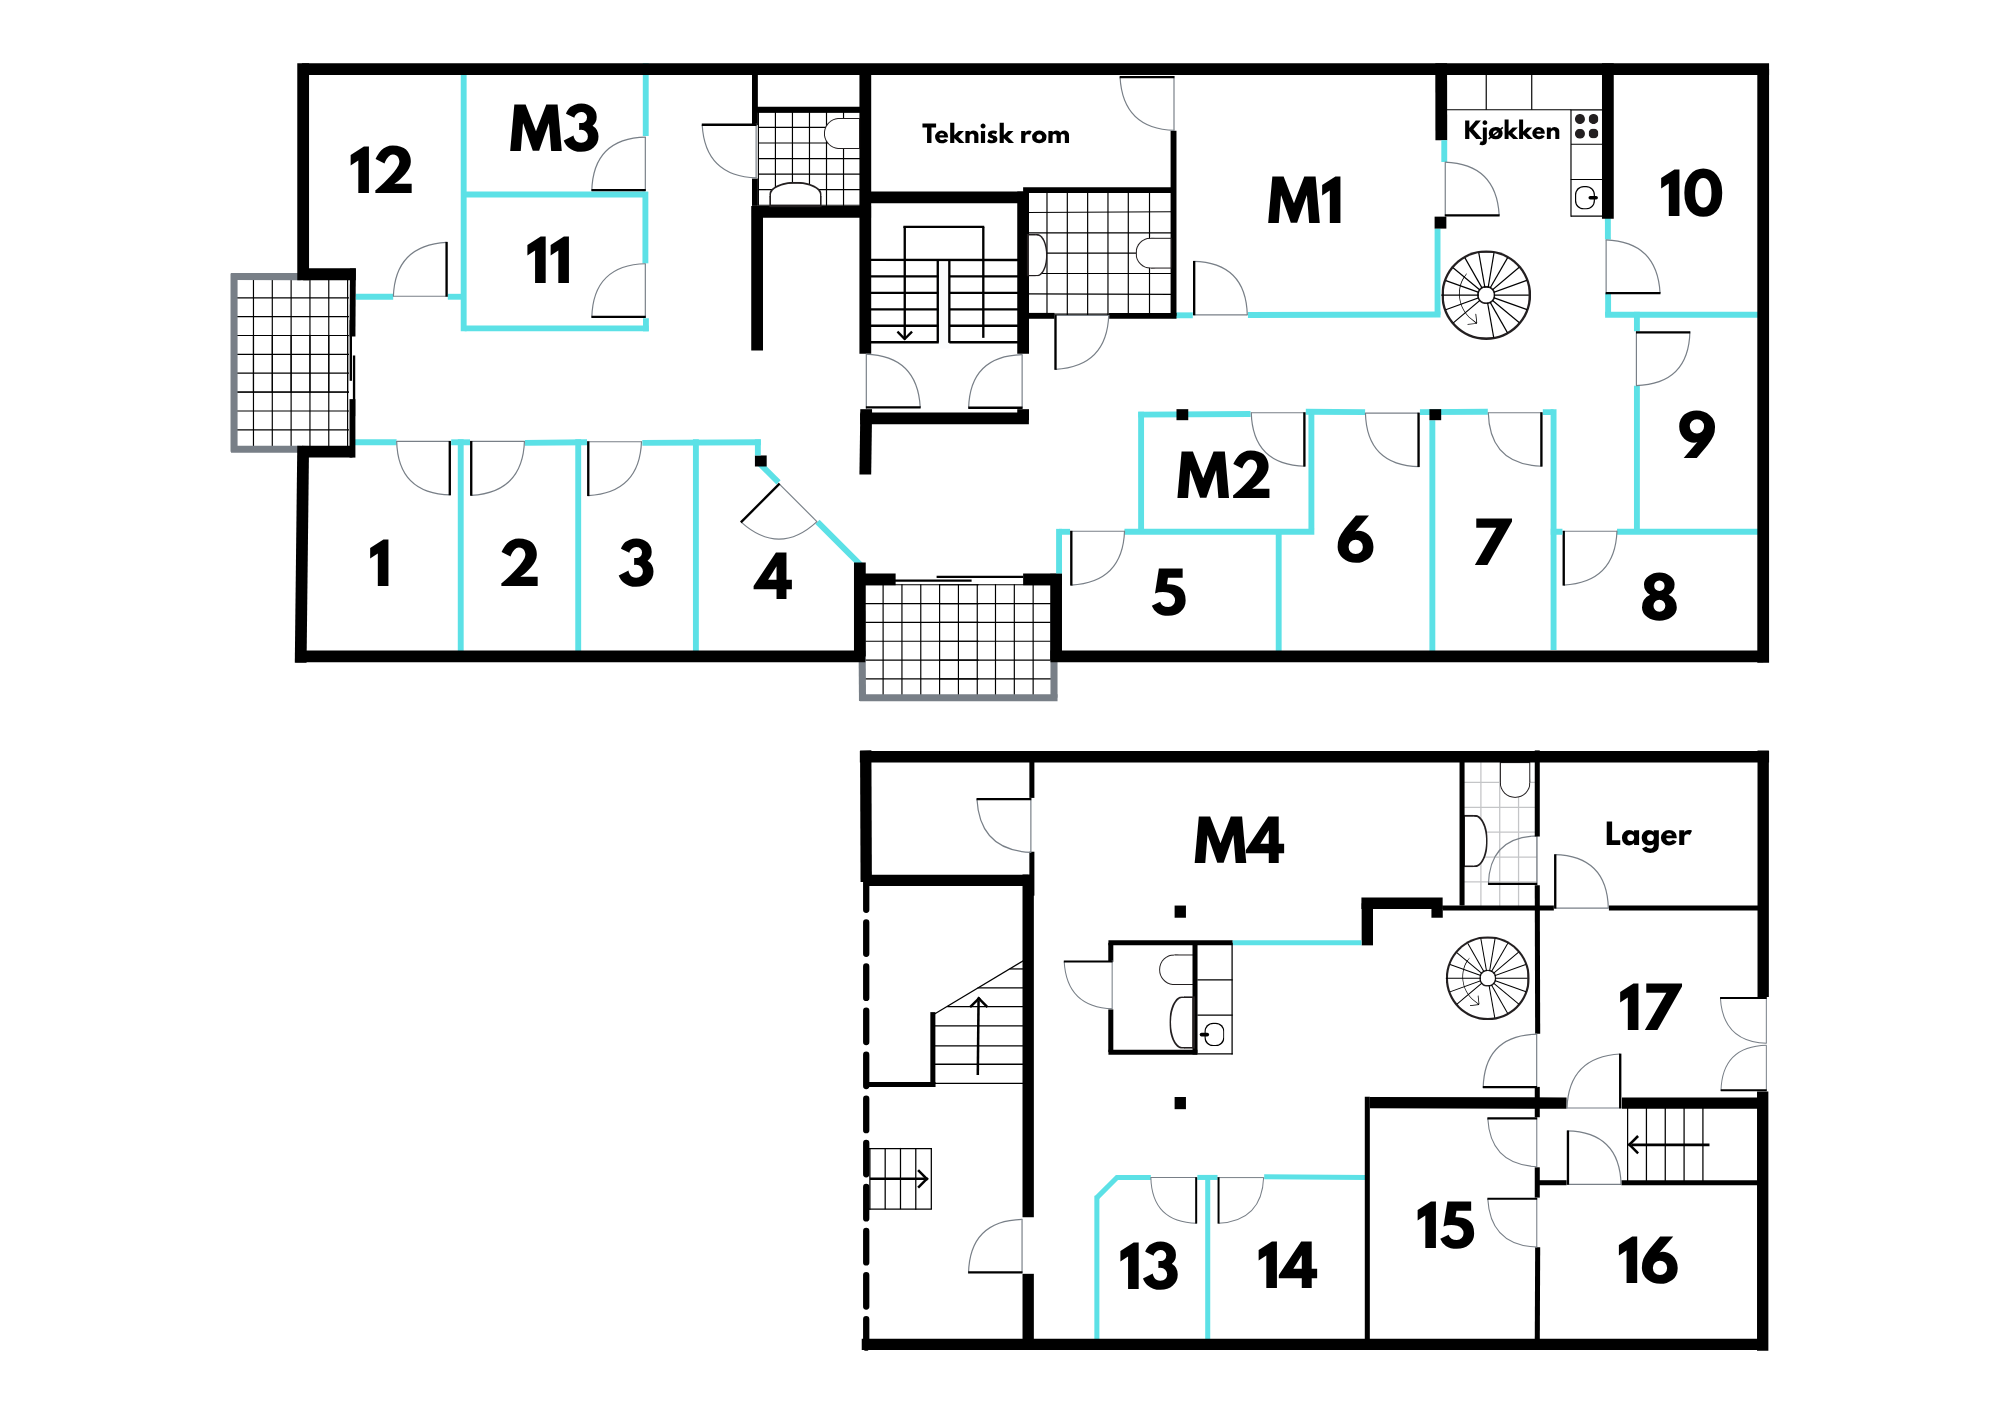
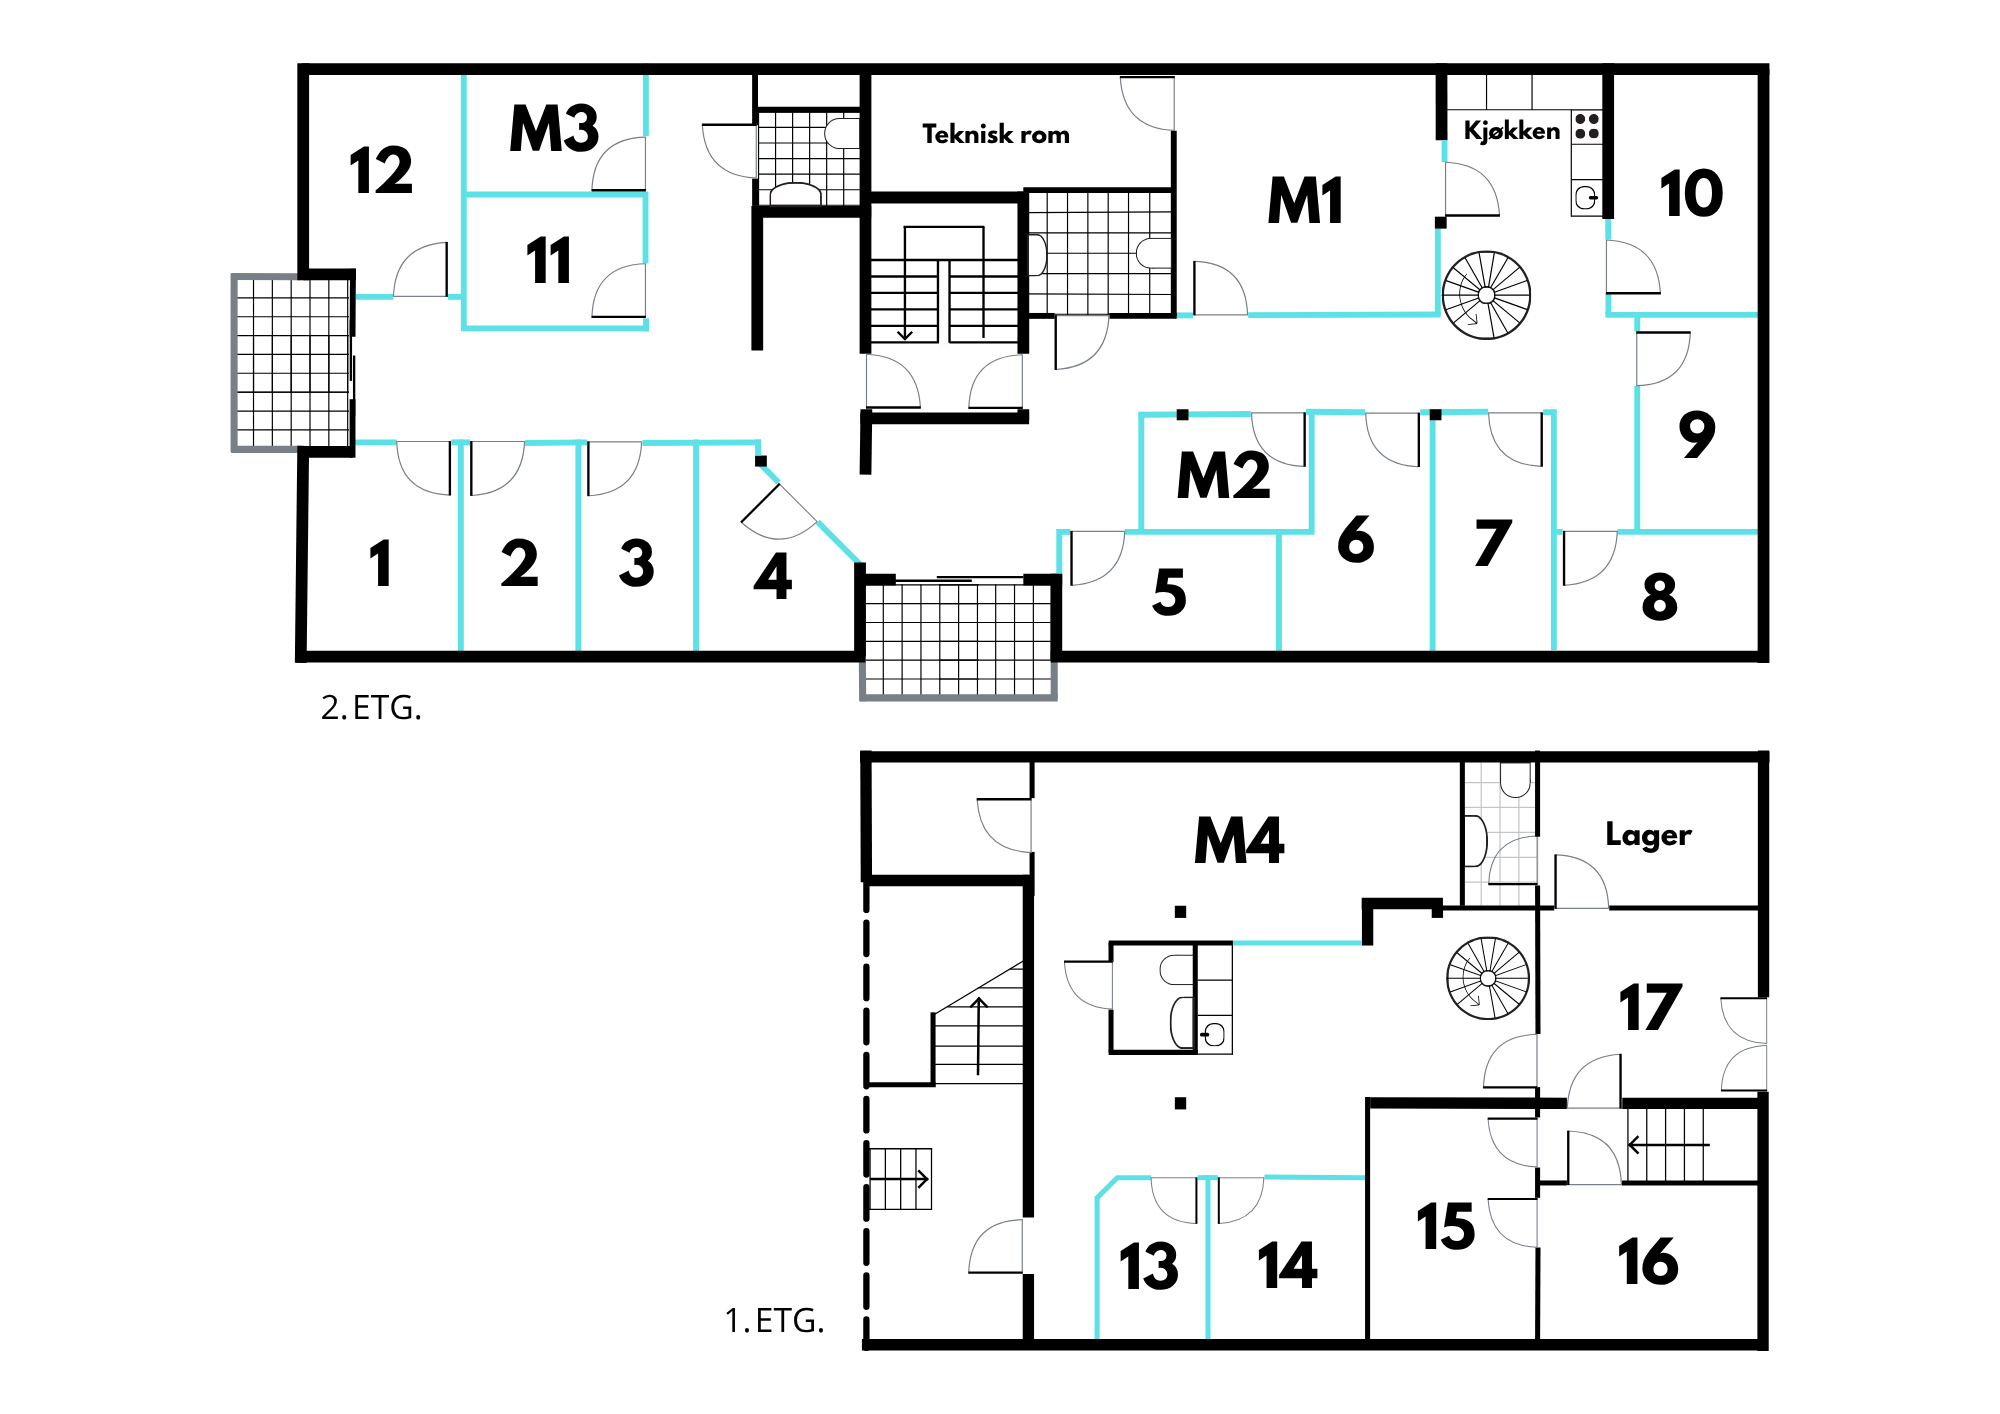
Oppdater Tolvegården nettside

diff --git a/js/script.js b/js/script.js
@@ -19,23 +19,23 @@ navButtons.forEach(button => {
 // Offices data - 19 kontorer
 const offices = [
   { id: 1, name: 'Kontor 1', sqm: 10, available: false, tenant: 'RUDCON AS' },
-  { id: 2, name: 'Kontor 2', sqm: 8, available: false, tenant: 'RUDCON AS' },
+  { id: 2, name: 'Kontor 2', sqm: 8, available: false, tenant: 'E-boiler Invent AS' },
   { id: 3, name: 'Kontor 3', sqm: 8, available: true, tenant: null },
-  { id: 4, name: 'Kontor 4', sqm: 9, available: false, tenant: null },
-  { id: 5, name: 'Kontor 5', sqm: 8, available: false, tenant: null },
-  { id: 6, name: 'Kontor 6', sqm: 9, available: true, tenant: null },
+  { id: 4, name: 'Kontor 4', sqm: 9, available: false, tenant: 'Konsmo Fabrikker AS' },
+  { id: 5, name: 'Kontor 5', sqm: 8, available: false, tenant: 'Lister Advokatene AS' },
+  { id: 6, name: 'Kontor 6', sqm: 9, available: false, tenant: 'Utleid privat' },
   { id: 7, name: 'Kontor 7', sqm: 9, available: true, tenant: null },
-  { id: 8, name: 'Kontor 8', sqm: 7, available: false, tenant: null },
+  { id: 8, name: 'Kontor 8', sqm: 7, available: true, tenant: null },
   { id: 9, name: 'Kontor 9', sqm: 8, available: true, tenant: null },
   { id: 10, name: 'Kontor 10', sqm: 11, available: true, tenant: null },
   { id: 11, name: 'Kontor 11', sqm: 7, available: true, tenant: null },
-  { id: 12, name: 'Kontor 12', sqm: 10, available: false, tenant: 'E-Boiler Invent AS' },
+  { id: 12, name: 'Kontor 12', sqm: 10, available: true, tenant: null },
   { id: 13, name: 'Kontor 13', sqm: 5, available: true, tenant: null },
   { id: 14, name: 'Kontor 14', sqm: 7, available: true, tenant: null },
   { id: 15, name: 'Kontor 15', sqm: 13, available: false, tenant: 'Flekkefjord Begravelsesbyrå' },
   { id: 16, name: 'Kontor 16', sqm: 10, available: false, tenant: 'Flekkefjord Begravelsesbyrå' },
   { id: 17, name: 'Kontor 17', sqm: 12, available: false, tenant: 'Flekkefjord Begravelsesbyrå' },
-  { id: 18, name: 'Kontor M2', sqm: 7, available: false, tenant: null },
+  { id: 18, name: 'Kontor M2', sqm: 7, available: false, tenant: 'Lister Advokatene AS' },
   { id: 19, name: 'Kontor M3', sqm: 7, available: true, tenant: null }
 ];
 

diff --git a/index.html b/index.html
@@ -3,8 +3,12 @@
 <head>
   <meta charset="UTF-8" />
   <meta name="viewport" content="width=device-width, initial-scale=1.0" />
+  <meta name="description" content="Tolvegården kontorfellesskap i Flekkefjord - moderne kontorer med utsikt mot elva og byfjorden." />
+  <link rel="icon" type="image/svg+xml" href="../assets/icons/rudcon-favicon.svg" />
+  <link rel="apple-touch-icon" href="../assets/icons/rudcon-favicon.svg" />
+  <meta property="og:image" content="https://rudcon.no/assets/icons/rudcon-favicon.svg" />
   <title>Tolvegården kontorfellesskap</title>
-  <link rel="stylesheet" href="css/styles.css" />
+  <link rel="stylesheet" href="./css/styles.css" />
 </head>
 <body>
   <header class="site-header">
@@ -94,7 +98,7 @@
               <img class="person-image" src="images/Frode.jpeg" alt="Frode Rudolfsen" />
               <div class="person-info">
                 <p id="person1Name">Navn: Frode Rudolfsen</p>
-                <p id="person1Title">Tittel: Legges inn senere</p>
+                <p id="person1Title">Utleier</p>
                 <p id="person1Phone">Tlf: 482 70 233</p>
                 <p id="person1Email">E-post: Frode.rudolfsen@rudcon.no</p>
               </div>
